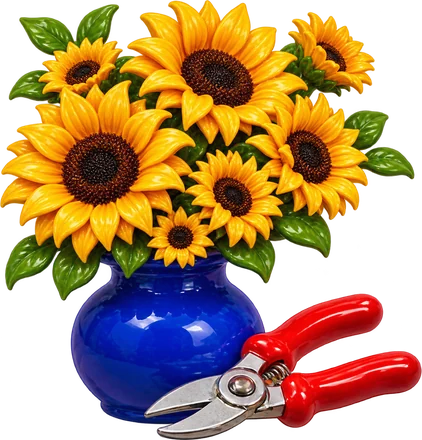
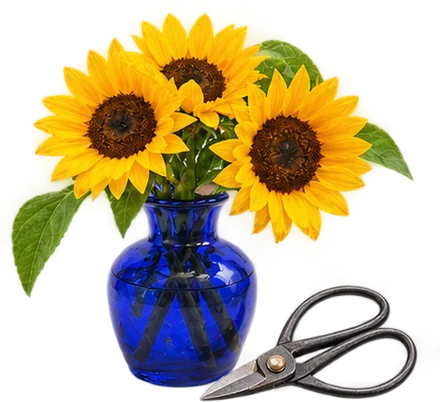
Add files via upload

diff --git a/assets/css/style.css b/assets/css/style.css
@@ -1102,3 +1102,53 @@ body.editing.has-changes .editbar { display: flex; }
 .big-item:hover .big-x { opacity: 1; } .big-x:hover { color: var(--neon); }
 @media (hover: none) { .big-x { opacity: .6; } }
 .big-add { padding-top: 10px; }
+
+/* itinerary day header: the × sits in its own column, never on top of the note */
+.run-day-head { grid-template-columns: 56px minmax(0, 1fr) auto auto; }
+.run-day-head .day-x { position: static; transform: none; }
+@media (max-width: 720px) {
+  .run-day-head { grid-template-columns: 44px minmax(0, 1fr) auto; }
+  .run-day-head .note { grid-column: 2; grid-row: 2; }
+  .run-day-head .day-x { grid-column: 3; grid-row: 1; }
+}
+
+/* no blue card backgrounds: icy blue stays an accent only */
+.ph.tint-ice { background-color: var(--butter-deep); color: var(--brown-mid); }
+.box.ice { background: var(--butter-light); border-color: var(--line); }
+.box.ice .eyebrow.ice, .market-mini + p .arrow-link { color: var(--orange) !important; }
+.g-card.soon { background: var(--butter-light); box-shadow: 6px 6px 0 var(--orange-soft); border-color: var(--brown-mid); }
+.g-card.soon:hover { box-shadow: 9px 9px 0 var(--neon); }
+.g-card.soon .hed, .g-card.soon .eyebrow.ice, .g-card.soon p { color: var(--espresso) !important; }
+.tally { background: var(--butter-deep); }
+.tally .big, .tally .eyebrow, .tally .why { color: var(--espresso); }
+/* an open gathering dropdown floats above the cards below it */
+.card { position: relative; }
+.card:has(details.g-menu[open]) { z-index: 50; transform: none; }
+.g-menu[open] .g-menu-list { z-index: 60; }
+.card.menu-open { z-index: 50; transform: none; }
+/* the orange squiggle runs the full width of the headline */
+.hed-wrap { display: inline-block; max-width: 100%; }
+.hed-wrap .squiggle.full { display: block; width: 100%; height: 22px; margin-top: 10px; }
+.hed-wrap .squiggle.full path { vector-effect: non-scaling-stroke; }
+.landing-hero .lede { max-width: 820px; }
+/* phones: two stickers layered in the open space beside "Good" */
+@media (max-width: 720px) {
+  .pepper img:nth-child(1) { display: block; width: 118px; top: 74px !important; right: 26px !important; left: auto !important; z-index: 1; }
+  .pepper img:nth-child(2) { display: block; width: 74px; top: 124px !important; right: 112px !important; left: auto !important; z-index: 2; }
+}
+@media (max-width: 720px) {
+  .pepper img:nth-child(1) { width: 100px; top: 100px !important; right: 28px !important; }
+  .pepper img:nth-child(2) { width: 60px; top: 148px !important; right: 100px !important; }
+}
+@media (max-width: 720px) {
+  .pepper img:nth-child(1) { width: 92px; top: 98px !important; right: 30px !important; }
+  .pepper img:nth-child(2) { width: 54px; top: 122px !important; right: 102px !important; }
+}
+/* phones: logo + avatar stay cream; the section links get a bright orange band */
+@media (max-width: 720px) {
+  .site-head { background: var(--cream); }
+  .site-head .wrap { padding-bottom: 0; row-gap: 12px; }
+  .site-nav { margin: 0 -18px; width: calc(100% + 36px); padding: 13px 18px; background: var(--neon); }
+  .site-nav a { color: var(--butter); }
+  .site-nav a::after { background: var(--butter); bottom: -4px; height: 2px; }
+}

diff --git a/assets/js/landing.js b/assets/js/landing.js
@@ -137,7 +137,7 @@
   function gatherings() {
     const el = document.querySelector("#gathering-grid"); if (!el) return;
     el.innerHTML = data.gatherings.map((g, gi) =>
-      '<a class="g-card" href="gathering.html?g=' + esc(g.id) + '"><div class="img" style="background-image:url(\'' + esc(img(g.cardImage || g.heroImage)) + '\')"><span class="badge neon">No. ' + esc(g.number) + "</span>" + '<span class="kind-tags">' + (g.kind || []).map((k) => "<i>" + esc({ meal: "meal", trip: "trip", together: "get-together" }[k] || k) + "</i>").join("") + "</span>" + GC.pencil("gatherings." + gi + ".cardImage", g.id + "-card") + "</div>" +
+      '<a class="g-card" href="gathering.html?g=' + esc(g.id) + '"><div class="img" style="background-image:url(\'' + esc(img(g.cardImage || g.heroImage)) + '\')"><span class="badge neon">No. ' + esc(g.number) + "</span>"  + GC.pencil("gatherings." + gi + ".cardImage", g.id + "-card") + "</div>" +
       '<div class="body"><p class="eyebrow orange">' + esc(g.place) + " · " + esc(g.status) + '</p><h3 class="hed">' + esc(g.title) + '</h3><p style="margin:10px 0 0;color:var(--muted)">' + esc(g.subtitle) + '</p><div class="meta">' + esc(g.dates) + " · " + esc(g.people) + " people</div></div></a>").join("") +
       (GC.editing ? '<button type="button" class="g-card soon" data-new-gathering><div><p class="eyebrow ice">No. ' + String(data.gatherings.length + 1).padStart(3, "0") + '</p><h3 class="hed">+ add a gathering</h3><p style="color:var(--ice-deep);max-width:300px;margin:12px auto 0">A meal, a trip, or a get-together. Pick the dates and the days build themselves.</p></div></button>' : "") +
       (GC.editing ? "" : '<a class="g-card soon" href="recipes.html"><div><p class="eyebrow ice">No. ' + String(data.gatherings.length + 1).padStart(3, "0") + ' · up next</p><h3 class="hed">the next long table</h3><p style="color:var(--ice-deep);max-width:300px;margin:12px auto 0">Until then, the Recipe Box is where the good ones wait. ' + icons.ne + "</p></div></a>");
@@ -185,6 +185,16 @@
   }
   document.addEventListener("click", (e) => { if (e.target.closest("[data-new-gathering]")) newGathering(); });
 
+  // the orange squiggle matches the headline's real width, even when it wraps
+  function fitSquiggle() {
+    const h = document.querySelector(".landing-hero h1"), sq = document.querySelector(".squiggle.full"); if (!h || !sq) return;
+    const rg = document.createRange(); rg.selectNodeContents(h);
+    const rects = [...rg.getClientRects()]; if (!rects.length) return;
+    sq.style.width = Math.round(Math.max(...rects.map((r) => r.right)) - h.getBoundingClientRect().left) + "px";
+  }
+  window.addEventListener("resize", fitSquiggle);
+  if (document.fonts && document.fonts.ready) document.fonts.ready.then(fitSquiggle);
+
   GC.onChange = () => { render(); gatherings(); };
-  GC.ready.then(() => { render(); gatherings(); });
+  GC.ready.then(() => { render(); gatherings(); fitSquiggle(); });
 })();

diff --git a/assets/js/ui.js b/assets/js/ui.js
@@ -86,6 +86,7 @@
     { id: "appetizer", label: "Appetizer", src: "images/stickers/appetizer.webp" },
     { id: "bread", label: "Bread", src: "images/stickers/bread.webp" },
     { id: "breakfast", label: "Breakfast", src: "images/stickers/breakfast.webp" },
+    { id: "pasta", label: "Pasta", src: "images/stickers/pasta.webp" },
     { id: "cheese-board", label: "Cheese board", src: "images/stickers/cheese-board.webp" },
     { id: "cocktail", label: "Cocktail", src: "images/stickers/cocktail.webp" },
     { id: "coffee", label: "Coffee", src: "images/stickers/coffee.webp" },
@@ -114,14 +115,19 @@
     ["meat-entree", /turkey|chicken|beef|steak|pork|lamb|ham|brisket|duck|meatball|sausage|ribs/],
     ["appetizer", /dip|deviled|crostini|bruschetta|tartlet|canap|appetizer|stuffed mushroom/], ["snack", /popcorn|nuts|snack|cracker|chips|trail mix/],
     ["side", /potato|gratin|mash|stuffing|casserole|roasted|green beans|carrot|brussels|squash|rice|beans/],
-    ["vegetarian-entree", /lasagna|risotto|curry|pasta|tofu|eggplant|vegetarian|veggie|quiche/]
+    ["pasta", /pasta|rigatoni|spaghetti|linguine|fettuccine|penne|orecchiette|bucatini|tagliatelle|pappardelle|lasagna|gnocchi|ravioli|tortellini|carbonara|cacio e pepe|bolognese|mac and cheese|macaroni|noodle|orzo/],
+    ["vegetarian-entree", /risotto|curry|tofu|eggplant|vegetarian|veggie|quiche/]
   ];
   // the dish is usually the last thing named before "with": "chicken soup" → soup, "maple glazed turkey with gravy" → turkey
   function bestGuess(list, title) {
     const t = String(title || "").toLowerCase().split(/\s+with\s+|\s+and\s+|,/)[0];
     let best = "", at = -1;
     list.forEach(([id, re]) => { const g = new RegExp(re.source, "g"); let m; while ((m = g.exec(t))) { const end = m.index + m[0].length; if (end > at) { at = end; best = id; } if (!m[0].length) g.lastIndex++; } });
-    return best || (t !== String(title || "").toLowerCase() ? bestGuess(list, String(title).toLowerCase().replace(/^.*?\s+with\s+/, "")) : "");
+    if (best) return best;
+    // nothing in the first part: look at the whole title once
+    const all = String(title || "").toLowerCase(); let at2 = -1;
+    list.forEach(([id, re]) => { const g = new RegExp(re.source, "g"); let m; while ((m = g.exec(all))) { const end = m.index + m[0].length; if (end > at2) { at2 = end; best = id; } if (!m[0].length) g.lastIndex++; } });
+    return best;
   }
   const guessCategory = (title) => bestGuess(GUESS, title);
 

diff --git a/plan.html b/plan.html
@@ -31,9 +31,11 @@
     <div class="wrap hero-row">
       <div>
         <p class="eyebrow">Welcome to the table</p>
-        <h1 class="hed">Good Company</h1>
-        <svg viewBox="0 0 260 18" class="squiggle" fill="none" stroke="#FF5A12" stroke-width="5" stroke-linecap="round"><path d="M4 12C30 2 46 16 70 8s42 6 66-2 44 8 66 0 34 4 50-2"/></svg>
-        <p class="lede">A planning book for meals, trips and get-togethers. Long tables, loose itineraries, and the people who make them good.</p>
+        <div class="hed-wrap">
+          <h1 class="hed">Good Company</h1>
+          <svg viewBox="0 0 260 18" class="squiggle full" preserveAspectRatio="none" fill="none" stroke="#FF5A12" stroke-width="5" stroke-linecap="round"><path d="M4 12C30 2 46 16 70 8s42 6 66-2 44 8 66 0 34 4 50-2"/></svg>
+        </div>
+        <p class="lede">A planning book for meals, trips and get-togethers.<br>Long tables, loose itineraries, and the people who make them good.</p>
         <div class="stamp small">Come<br>as you<br>are</div>
       </div>
     </div>

diff --git a/assets/js/core.js b/assets/js/core.js
@@ -180,9 +180,11 @@
     if (msg) toast(msg);
     onChange();
   }
+  const PUB_KEY = "gc-exported";
   function changedCount() {
     const a = JSON.stringify(BASE), b = JSON.stringify(data);
     if (a === b) return 0;
+    try { if (localStorage.getItem(PUB_KEY) === b) return 0; } catch (e) {} // already exported, waiting on GitHub
     return [...blobs.keys()].filter((p) => b.includes(p)).length || 1;
   }
 
@@ -240,6 +242,8 @@
     a.href = URL.createObjectURL(makeZip(files));
     a.download = "good-company-update.zip";
     document.body.appendChild(a); a.click(); a.remove();
+    try { localStorage.setItem(PUB_KEY, JSON.stringify(data)); } catch (e) {}
+    updateBar();
     toast("Downloaded. Drag its folders into your GitHub repo to publish.");
   }
 

diff --git a/assets/js/ideas.js b/assets/js/ideas.js
@@ -101,6 +101,7 @@
     document.querySelectorAll(".card").forEach((c) => (c.style.display = !q || c.dataset.search.includes(q) ? "" : "none"));
   });
 
+  document.addEventListener("toggle", (e) => { const d = e.target; if (!d.matches || !d.matches("details.g-menu")) return; const c = d.closest(".card"); if (c) c.classList.toggle("menu-open", d.open); }, true);
   GC.onChange = render;
   GC.ready.then(() => { render(); const i = data.activities.findIndex((a) => a.id === location.hash.slice(1)); if (i > -1) view(i); });
 })();

diff --git a/assets/js/recipes.js b/assets/js/recipes.js
@@ -96,6 +96,7 @@
     document.querySelectorAll(".card").forEach((c) => (c.style.display = !q || c.dataset.search.includes(q) ? "" : "none"));
   });
 
+  document.addEventListener("toggle", (e) => { const d = e.target; if (!d.matches || !d.matches("details.g-menu")) return; const c = d.closest(".card"); if (c) c.classList.toggle("menu-open", d.open); }, true);
   GC.onChange = render;
   GC.ready.then(() => {
     render();
